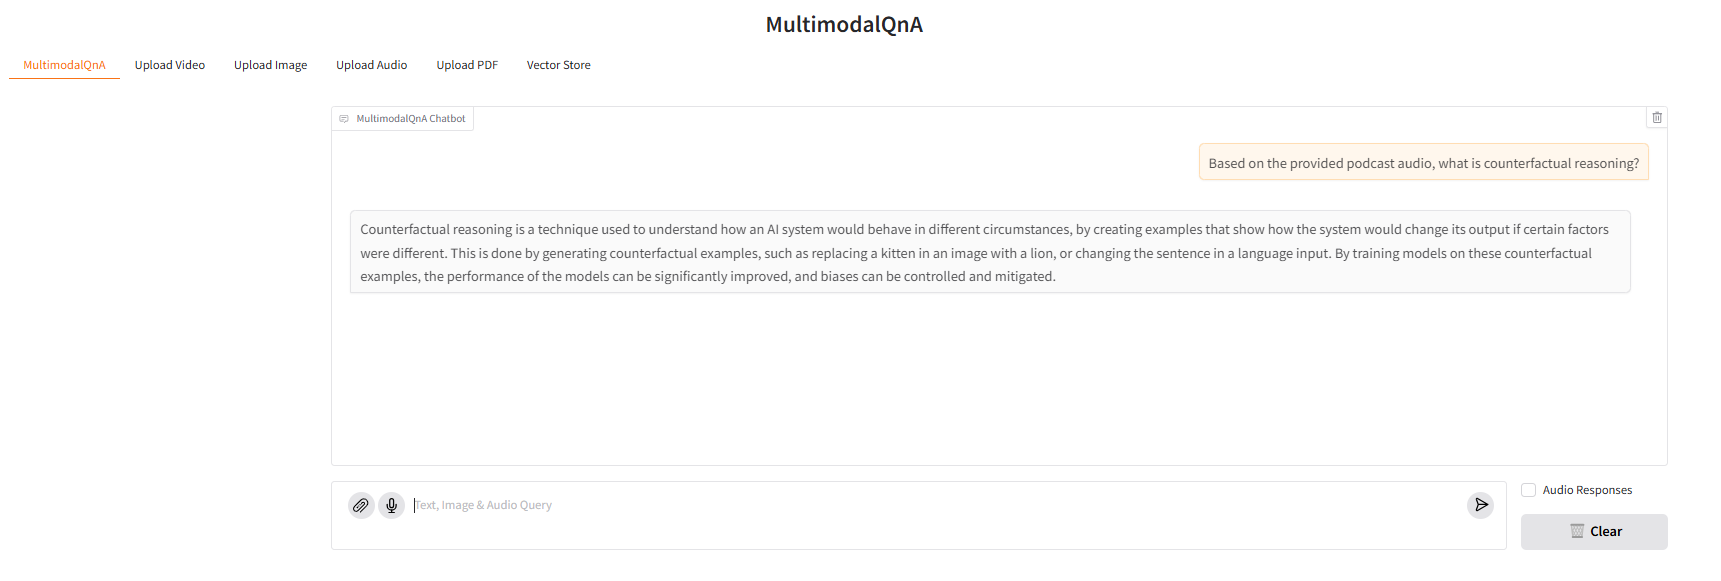
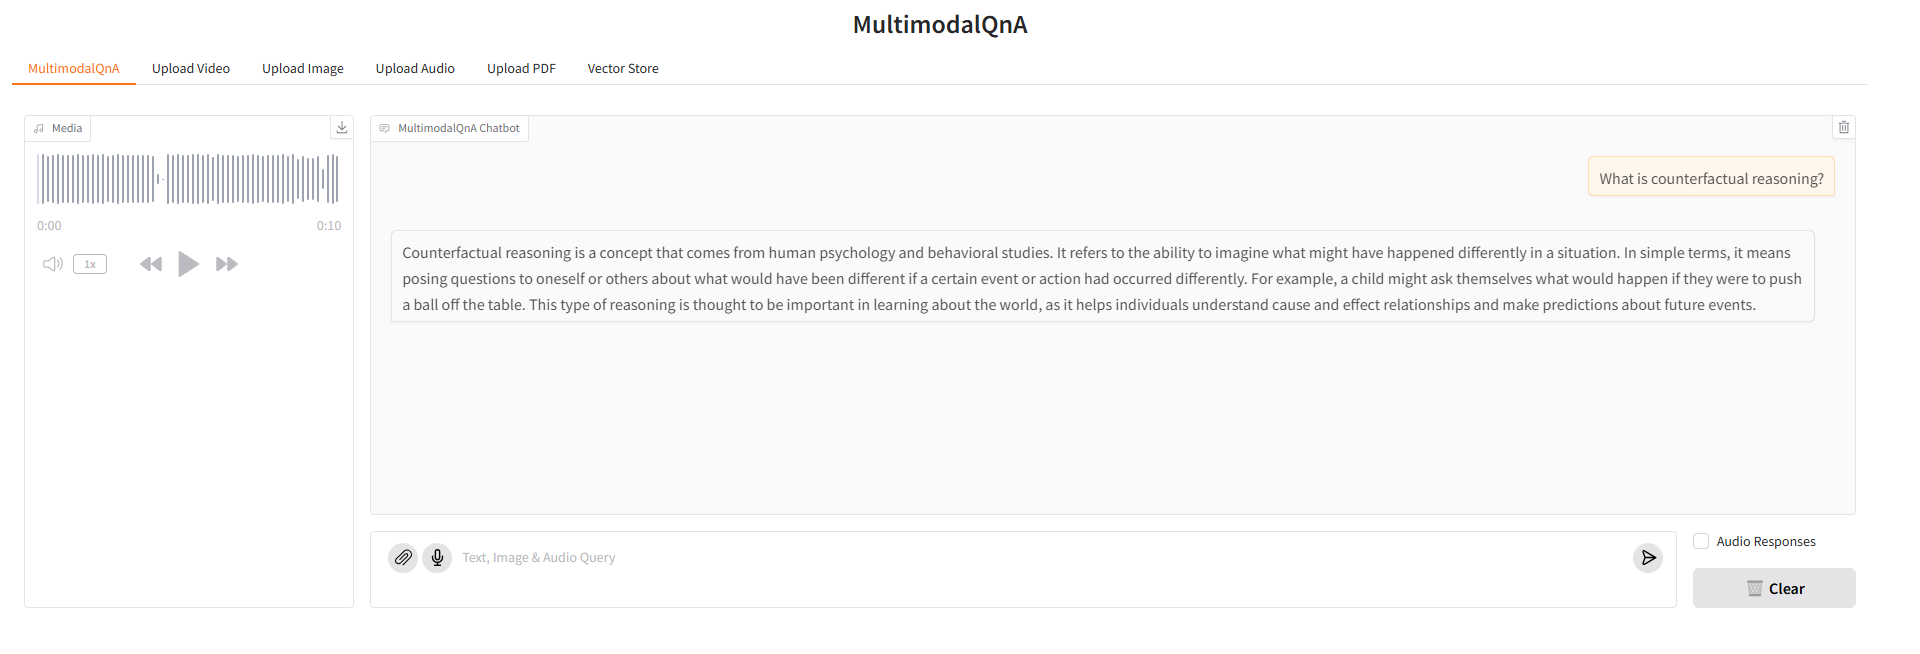
Adds relevant audio clip in the UI query tab similar to video clip (#71)
* Initial commit to add logic

* changes per review comments from closed PR #66

* Modified screenshot for audio query

* rename tmp_dir2 to audio_tmp_dir

---------

diff --git a/MultimodalQnA/ui/gradio/multimodalqna_ui_gradio.py b/MultimodalQnA/ui/gradio/multimodalqna_ui_gradio.py
@@ -16,18 +16,17 @@ from fastapi import FastAPI
 from fastapi.staticfiles import StaticFiles
 from gradio_pdf import PDF
 from utils import (
-    GRADIO_AUDIO_FORMATS,
-    GRADIO_IMAGE_FORMATS,
+    AUDIO_FORMATS,
+    IMAGE_FORMATS,
     TMP_DIR,
     build_logger,
     convert_base64_to_audio,
     make_temp_image,
     server_error_msg,
+    split_audio,
     split_video,
 )
 
-IMAGE_FORMATS = [".png", ".gif", ".jpg", ".jpeg"]
-AUDIO_FORMATS = [".wav", ".mp3"]
 
 logger = build_logger("gradio_web_server", "gradio_web_server.log")
 logflag = os.getenv("LOGFLAG", False)
@@ -49,6 +48,7 @@ app = FastAPI()
 cur_dir = os.getcwd()
 static_dir = Path(os.path.join(cur_dir, "static/"))
 tmp_dir = Path(os.path.join(cur_dir, "split_tmp_videos/"))
+audio_tmp_dir = Path(os.path.join(cur_dir, "split_tmp_audios/"))
 
 Path(static_dir).mkdir(parents=True, exist_ok=True)
 app.mount("/static", StaticFiles(directory=static_dir), name="static")
@@ -62,6 +62,8 @@ disable_btn = gr.Button(interactive=False)
 
 def clear_history(state, request: gr.Request):
     logger.info(f"clear_history. ip: {request.client.host}")
+    if state.split_audio and os.path.exists(state.split_audio):
+        os.remove(state.split_audio)
     if state.split_video and os.path.exists(state.split_video):
         os.remove(state.split_video)
     if state.image and os.path.exists(state.image):
@@ -72,10 +74,11 @@ def clear_history(state, request: gr.Request):
     state.chatbot_history = []
     for file in glob.glob(os.path.join(TMP_DIR, "*.wav")):
         os.remove(file)  # This removes all chatbot assistant's voice response files
+    audio = gr.Audio(value=None, elem_id="audio", visible=False, label="Media")
     video = gr.Video(value=None, elem_id="video", visible=True, label="Media")
     image = gr.Image(value=None, elem_id="image", visible=False, label="Media")
     pdf = PDF(value=None, elem_id="pdf", interactive=False, visible=False, label="Media")
-    return (state, state.to_gradio_chatbot(), None, video, image, pdf) + (disable_btn,) * 1
+    return (state, state.to_gradio_chatbot(), None, audio, video, image, pdf) + (disable_btn,) * 1
 
 
 def add_text(state, multimodal_textbox, request: gr.Request):
@@ -95,9 +98,9 @@ def add_text(state, multimodal_textbox, request: gr.Request):
     state.skip_next = False
 
     if files:
-        if Path(files[0]).suffix in GRADIO_IMAGE_FORMATS:
+        if Path(files[0]).suffix in IMAGE_FORMATS:
             image_file = files[0]
-        if Path(files[0]).suffix in GRADIO_AUDIO_FORMATS or len(files) > 1:
+        if Path(files[0]).suffix in AUDIO_FORMATS or len(files) > 1:
             audio_file = files[-1]  # Guaranteed that last file would be recorded audio
 
     # Add to chatbot history
@@ -122,7 +125,7 @@ def http_bot(state, audio_response_toggler, request: gr.Request):
 
     if state.skip_next:
         # This generate call is skipped due to invalid inputs
-        yield (state, state.to_gradio_chatbot(), None, None, None) + (no_change_btn,) * 1
+        yield (state, state.to_gradio_chatbot(), None, None, None, None) + (no_change_btn,) * 1
         return
 
     is_very_first_query = all(True if h["role"] == "user" else False for h in state.chatbot_history)
@@ -137,7 +140,7 @@ def http_bot(state, audio_response_toggler, request: gr.Request):
 
     state.chatbot_history.append({"role": state.roles[1], "content": "▌"})
 
-    yield (state, state.to_gradio_chatbot(), state.split_video, state.image, state.pdf) + (disable_btn,) * 1
+    yield (state, state.to_gradio_chatbot(), state.split_audio, state.split_video, state.image, state.pdf) + (disable_btn,) * 1
 
     if logflag:
         logger.info(f"==== request ====\n{pload}")
@@ -186,6 +189,15 @@ def http_bot(state, audio_response_toggler, request: gr.Request):
                         print(f"video {state.video_file} does not exist in UI host!")
                         splited_video_path = None
                     state.split_video = splited_video_path
+                elif file_ext in AUDIO_FORMATS:
+                    try:
+                        splited_audio_path = split_audio(
+                            state.video_file, state.time_of_frame_ms, audio_tmp_dir, f"{state.time_of_frame_ms}__{video_file}"
+                        )
+                    except:
+                        print(f"audio {state.video_file} does not exist in UI host!")
+                        splited_audio_path = None
+                    state.split_audio = splited_audio_path
                 elif file_ext in IMAGE_FORMATS:
                     try:
                         output_image_path = make_temp_image(state.video_file, file_ext)
@@ -209,7 +221,7 @@ def http_bot(state, audio_response_toggler, request: gr.Request):
 
         gr.Error("Request exception occurred. See logs for details.")
 
-        yield (state, state.to_gradio_chatbot(), None, None, None) + (enable_btn,)
+        yield (state, state.to_gradio_chatbot(), None, None, None, None) + (enable_btn,)
         return
 
     if audio_response:
@@ -220,6 +232,7 @@ def http_bot(state, audio_response_toggler, request: gr.Request):
     yield (
         state,
         state.to_gradio_chatbot(),
+        gr.Audio(state.split_audio, visible=state.split_audio is not None),
         gr.Video(state.split_video, visible=state.split_video is not None),
         gr.Image(state.image, visible=state.image is not None),
         PDF(
@@ -659,6 +672,7 @@ with gr.Blocks() as qna:
     state = gr.State(multimodalqna_conv.copy())
     with gr.Row(equal_height=True):
         with gr.Column(scale=2):
+            audio = gr.Audio(elem_id="audio", visible=False, label="Media")
             video = gr.Video(elem_id="video", visible=True, label="Media")
             image = gr.Image(elem_id="image", visible=False, label="Media")
             pdf = PDF(elem_id="pdf", interactive=False, visible=False, label="Media")
@@ -668,7 +682,7 @@ with gr.Blocks() as qna:
                 with gr.Column(scale=8):
                     multimodal_textbox = gr.MultimodalTextbox(
                         show_label=False,
-                        file_types=GRADIO_IMAGE_FORMATS + GRADIO_AUDIO_FORMATS,
+                        file_types=IMAGE_FORMATS + AUDIO_FORMATS,
                         sources=["microphone", "upload"],
                         placeholder="Text, Image & Audio Query",
                     )
@@ -683,12 +697,12 @@ with gr.Blocks() as qna:
         [
             state,
         ],
-        [state, chatbot, multimodal_textbox, video, image, pdf, clear_btn],
+        [state, chatbot, multimodal_textbox, audio, video, image, pdf, clear_btn],
     )
 
     multimodal_textbox.submit(
         add_text, [state, multimodal_textbox], [state, chatbot, multimodal_textbox, clear_btn]
-    ).then(http_bot, [state, audio_response_toggler], [state, chatbot, video, image, pdf, clear_btn]).then(
+    ).then(http_bot, [state, audio_response_toggler], [state, chatbot, audio, video, image, pdf, clear_btn]).then(
         lambda: gr.MultimodalTextbox(interactive=True), None, [multimodal_textbox]
     )
 

diff --git a/MultimodalQnA/ui/gradio/conversation.py b/MultimodalQnA/ui/gradio/conversation.py
@@ -6,7 +6,7 @@ from enum import Enum, auto
 from pathlib import Path
 from typing import Any, Dict, List, Literal
 
-from utils import GRADIO_AUDIO_FORMATS, GRADIO_IMAGE_FORMATS, convert_audio_to_base64, get_b64_frame_from_timestamp
+from utils import AUDIO_FORMATS, IMAGE_FORMATS, convert_audio_to_base64, get_b64_frame_from_timestamp
 
 
 class SeparatorStyle(Enum):
@@ -30,6 +30,7 @@ class Conversation:
     time_of_frame_ms: str = None
     base64_frame: str = None
     skip_next: bool = False
+    split_audio: str = None
     split_video: str = None
     image: str = None
     audio_query_file: str = None
@@ -68,12 +69,12 @@ class Conversation:
                 conv_dict[-1]["content"].append({"type": "text", "text": content})
 
             if isinstance(content, dict) and "path" in content:
-                if Path(content["path"]).suffix in GRADIO_IMAGE_FORMATS:
+                if Path(content["path"]).suffix in IMAGE_FORMATS:
                     is_image_query = True
                     conv_dict[-1]["content"].append(
                         {"type": "image_url", "image_url": {"url": get_b64_frame_from_timestamp(content["path"], 0)}}
                     )
-                if Path(content["path"]).suffix in GRADIO_AUDIO_FORMATS:
+                if Path(content["path"]).suffix in AUDIO_FORMATS:
                     conv_dict[-1]["content"].append(
                         {"type": "audio", "audio": convert_audio_to_base64(content["path"])}
                     )
@@ -127,6 +128,7 @@ class Conversation:
             "video_file": self.video_file,
             "caption": self.caption,
             "base64_frame": self.base64_frame,
+            "split_audio": self.split_audio,
             "split_video": self.split_video,
             "image": self.image,
             "audio_query_file": self.audio_query_file,
@@ -145,6 +147,7 @@ multimodalqna_conv = Conversation(
     caption=None,
     time_of_frame_ms=None,
     base64_frame=None,
+    split_audio=None,
     split_video=None,
     image=None,
     audio_query_file=None,

diff --git a/MultimodalQnA/ui/gradio/utils.py b/MultimodalQnA/ui/gradio/utils.py
@@ -11,19 +11,18 @@ import tempfile
 from pathlib import Path
 
 import cv2
+from moviepy.audio.io.AudioFileClip import AudioFileClip
 from moviepy.video.io.VideoFileClip import VideoFileClip
 
 LOGDIR = "."
 TMP_DIR = "/tmp"
 
+IMAGE_FORMATS = [".png", ".gif", ".jpg", ".jpeg"]
+AUDIO_FORMATS = [".wav", ".mp3"]
+
 server_error_msg = "**NETWORK ERROR DUE TO HIGH TRAFFIC. PLEASE REGENERATE OR REFRESH THIS PAGE.**"
 moderation_msg = "YOUR INPUT VIOLATES OUR CONTENT MODERATION GUIDELINES. PLEASE TRY AGAIN."
 
-GRADIO_IMAGE_FORMATS = [".jpeg", ".png", ".jpg", ".gif"]
-GRADIO_AUDIO_FORMATS = [
-    ".wav",
-    ".mp3",
-]
 
 handler = None
 save_log = False
@@ -159,6 +158,28 @@ def split_video(
         new = video.subclip(start_time, end_time)
         new.write_videofile(output_video, audio_codec="aac")
     return output_video
+
+
+# function to split audio at a timestamp
+def split_audio(
+    audio_path,
+    timestamp_in_ms,
+    output_audio_path: str = "./public/splitted_audios",
+    output_audio_name: str = "audio_tmp.wav",
+    play_before_sec: int = 5,
+    play_after_sec: int = 5,
+):
+    timestamp_in_sec = int(timestamp_in_ms) / 1000
+    # create output_audio_name folder if not exist:
+    Path(output_audio_path).mkdir(parents=True, exist_ok=True)
+    output_audio = os.path.join(output_audio_path, output_audio_name)
+    with AudioFileClip(audio_path) as audio:
+        duration = audio.duration
+        start_time = max(timestamp_in_sec - play_before_sec, 0)
+        end_time = min(timestamp_in_sec + play_after_sec, duration)
+        new = audio.subclip(start_time, end_time)
+        new.write_audiofile(output_audio)
+    return output_audio
 
 
 def delete_split_video(video_path):
